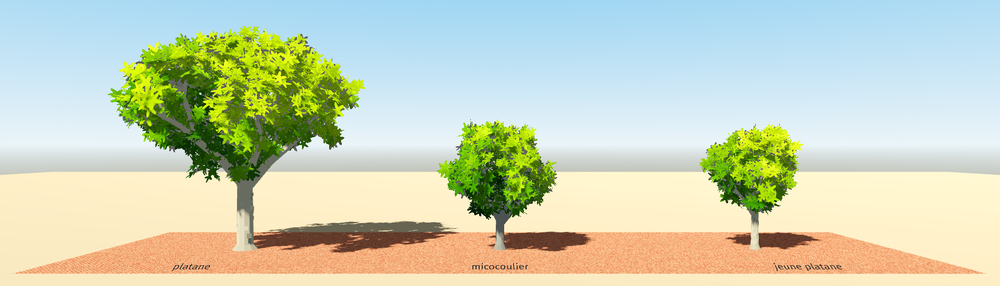
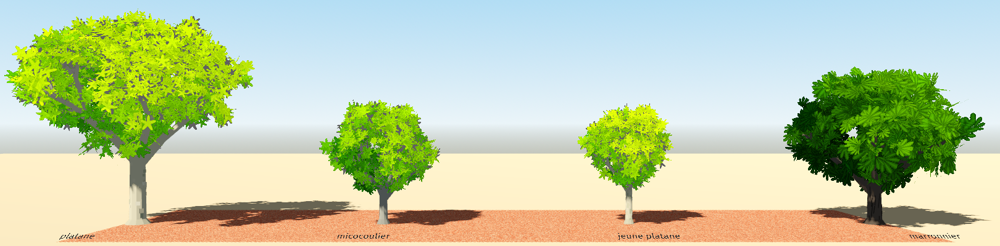
Bibliothèque : le marronnier, la lumière en aplats des arbres d'ombrière et la teinte des tuiles lyonnaises
Pour la carte de Lyon : arbres-d-ombriere@1 gagne le marronnier (feuilles
palmées à sept folioles dessinées par le shader, tronc sombre, couronne
large) et une lumière en aplats à la manière de Zelda (trois tons qui suivent
le dôme, ombre franche, liseré clair au soleil) ; facadier-lyonnais@1 prend
l'option tuile (un hexa), le défaut inchangé.

Claude-Session: https://claude.ai/code/session_01DJ1usffUoDo3bogmr9DKqH

diff --git a/docs/BIBLIOTHEQUE.md b/docs/BIBLIOTHEQUE.md
@@ -201,7 +201,7 @@ Les planches et la place recomposée : `godot --path . -s tools/planche_place.gd
 
 Quatre décors tirés du plan d'assets lyonnais de Guillaume (29 octobre 2026 : une place de la Presqu'île et sa fontaine au lion, des terrasses, le quai, la rivière et le pont à arches, la colline de Fourvière et sa basilique). Même facture que la place du nord : chaque dossier porte sa copie d'`outils.gd` et des deux shaders, un objet fusionne sa géométrie en trois surfaces au plus et ses collisions en un seul corps, rien n'est une image. Pied à l'origine sur un sol plat à y = 0, réglage par les propriétés de la racine, en mètres ; chaque brique dit ses variantes par une fonction statique (`types()` pour le façadier, `objets()` ou `noms()` pour les autres).
 
-- **`facadier-lyonnais@1`** (`type`, `graine`, `options`) : `maison` (deux étages), `classique` (trois), `arcades` (maison basse à arcades), `immeuble` (quatre), `etroite`, `bourgeois` (cinq niveaux et mansarde d'ardoise à lucarnes), `traboule` (le passage sombre sous une voûte), `cafe` (devanture rouge, store et enseigne, « CAFÉ DES CANUTS » par défaut), `hotel` (hôtel particulier sur rez-de-chaussée de pierre), `angle` (une seconde façade vers +X et un pan coupé) et `chapelle` (pignon, portail à voussures, rose, contreforts, clocher à flèche). La graine tire l'enduit (ocre, beige, rose, saumon, crème, jaune, pierre dorée, gris, terre), les persiennes, les garde-corps de fonte, les balcons filants, les fleurs, la vigne et les souches de cheminée ; le toit est en tuile canal à 24° sur génoise. Même repère que les autres façadiers. Options : `w`, `d`, `niveaux`, `enduit` (un nom ou un hexa), `toit` (`tuile`, `mansarde`), `rdc` (`boutique`, `cafe`, `arcades`, `passage`, `logis`, `pierre`), `persiennes`, `balcons`, `fleurs`, `vigne`, `enseigne`, `toile`. Métadonnées : `type`, `graine`, `w`, `d`, `hauteur` (au faîte), `porte`.
+- **`facadier-lyonnais@1`** (`type`, `graine`, `options`) : `maison` (deux étages), `classique` (trois), `arcades` (maison basse à arcades), `immeuble` (quatre), `etroite`, `bourgeois` (cinq niveaux et mansarde d'ardoise à lucarnes), `traboule` (le passage sombre sous une voûte), `cafe` (devanture rouge, store et enseigne, « CAFÉ DES CANUTS » par défaut), `hotel` (hôtel particulier sur rez-de-chaussée de pierre), `angle` (une seconde façade vers +X et un pan coupé) et `chapelle` (pignon, portail à voussures, rose, contreforts, clocher à flèche). La graine tire l'enduit (ocre, beige, rose, saumon, crème, jaune, pierre dorée, gris, terre), les persiennes, les garde-corps de fonte, les balcons filants, les fleurs, la vigne et les souches de cheminée ; le toit est en tuile canal à 24° sur génoise. Même repère que les autres façadiers. Options : `w`, `d`, `niveaux`, `enduit` (un nom ou un hexa), `toit` (`tuile`, `mansarde`), `rdc` (`boutique`, `cafe`, `arcades`, `passage`, `logis`, `pierre`), `persiennes`, `balcons`, `fleurs`, `vigne`, `enseigne`, `toile`, `tuile` (un hexa : la teinte des tuiles canal, demandée par la carte de Lyon ; le rouge orangé par défaut). Métadonnées : `type`, `graine`, `w`, `d`, `hauteur` (au faîte), `porte`.
 - **`mobilier-lyonnais@1`** (`objet`, `graine`, `options`) : `fontaine` (le grand bassin octogonal, la coupe, quatre mufles qui crachent, le lion couché sur son piédestal ; 11,2 m), `banc` (fonte verte et lattes), `banc_pierre`, `lampadaire` (réverbère à lanterne sur fût cannelé), `candelabre` (trois crosses et quatre lanternes), `borne`, `jardiniere` (pierre dorée et géraniums), `vasque` (fonte sur piédouche), `etal` (store à bandes et cagettes), `terrasse` (deux tables de bouchon, quatre chaises, parasol carré), `corbeille`, `escalier` (les marches des pentes et leur rampe), `garde_corps` (de quai, à frise de cercles), `kiosque` et `colonne` d'affiches. Le devant regarde +Z. Options : `fleurs`, `toile`, `allume`, `longueur`, `marches`, `eau` (faux : la fontaine à sec). Métadonnées : `objet`, `graine`, `emprise`.
 - **`vegetation-lyonnaise@1`** (`plante`, `graine`, `options`) : `platane` (fût marbré de plaques, charpentières en V), `alignement` (couronne taillée en ovale), `oranger` (dans sa caisse de Versailles, piqué d'oranges), `cypres`, `bac_fleuri`, `vigne` (sur son treillage, contre un mur placé en z = 0), `massif` (bordé de buis) et `buisson`. Options : `hauteur`, `pied` (`""`, `"grille"`, `"bordure"`), `fleurs`, `longueur`, `vent`, `fruits`. Métadonnées : `plante`, `graine`, `hauteur`, `couronne`.
 - **`quais-lyonnais@1`** (`module`, `graine`, `options`) : des modules sur une trame de 4 m, centrés sur l'origine, le devant vers +Z. Les sols (`paves` en rangs, `paves_eventail`, `dalle` de quai, `bordure` : trottoir relevé de 15 cm, bordure de granit, caniveau et chaussée) n'ont qu'une face de dessus par pavé. Puis `escalier_bas` (un mètre et son palier), `escalier_haut` (deux volées et un palier pour trois mètres, 6 m de fond), `arche` (plein cintre à claveaux), `arche_mur` (une arche aveugle grillée dans un mur de soutènement de 4 m, la terrasse pavée et son garde-corps au-dessus), `passage_escalier` (un passage voûté puis l'escalier entre deux murs jusqu'à la terrasse haute), `mur_quai_bas` (le parapet) et `mur_quai_haut` (le mur en fruit qui tombe dans la rivière, 3,4 m plus bas, avec anneau d'amarrage et échelle), enfin `pont` (trois arches surbaissées, avant-becs et parapets, 24 m). Options : `largeur`, `eau` (le mur haut et le pont avec leur bout de rivière), `parapet`. Métadonnées : `module`, `graine`, `emprise`, `haut` (la hauteur où mène le module).
@@ -237,7 +237,7 @@ Rien n'est refait de ce que les autres décors ont déjà : le banc, la corbeill
 
 - **`facadier-toulousain@1`** (`type`, `graine`, `options`) : `atelier` (rez-de-chaussée seul), `etroite`, `moyenne`, `immeuble`, `angle` (deux façades), `arcades`, `cafe`, `commerce`, `restaurant`, `hotel` (hôtel particulier enduit rose poudre ou crème à chaînes de brique), `lafage` (avant-corps et fronton à oculus, d'après l'hôtel de Lafage), `wilson` (immeuble XIXe à angle courbe et mansarde d'ardoise) et `colombages`. Fenêtres sous arc de brique à clé de pierre, balconnets de fonte, devantures et leurs enseignes, stores, lanternes. Options : `w`, `d`, `niveaux` (0 à 6), `brique` (`rose`, `orange`, `saumon`, `brune`, `claire` ou un hexa), `enduit`, `parement` (`brique`, `enduit`, `pans_de_bois`), `toit` (`deux_pans`, `quatre_pans`, `mansarde`), `rdc` (`commerce`, `cafe`, `restaurant`, `arcades`, `porche`, `logis`), `persiennes`, `balconnets`, `fleurs`, `vigne`, `enseigne`, `toile`. Métadonnées : `type`, `graine`, `w`, `d`, `hauteur`, `porte`.
 - **`sols-toulousains@1`** (`module`, `graine`, `options`) : des modules sur une trame de 4 m, centrés sur l'origine : `brique_epi` (le grand tapis de la place ; le motif se raccorde d'un module à l'autre, sans couture), `brique_rangs`, `dalles`, `galets` (de Garonne), `bordure` (trottoir, bordure et caniveau sur la chaussée), `fosse_arbre` (grille de fonte dans la brique), `rond` (pavés rayonnants, 8 m), `emmarchement`, `muret` (brique et pierre, sa plate-bande) et `muret_grille`. Options : `largeur`, `marches`, `plantes`. Métadonnées : `module`, `graine`, `emprise`, `haut`.
-- **`arbres-d-ombriere@1`** (`arbre`, `graine`, `options`) : `platane` (18 à 22 m, fût clair marbré, couronne en dôme très large), `micocoulier` (10 à 12 m, des jardins et des cours) et `jeune_platane` (9 à 11 m, un mail récent). On voit la charpente de branches. Le feuillage est fait de centaines de touffes en dentelle : chaque touffe est formée de deux cartes croisées où le shader dessine cinq à sept feuilles à cinq lobes nervurées, et hors des feuilles la carte est percée. Le ciel passe donc à travers la couronne, et l'ombre portée est tachetée. Les feuilles sont vert tilleul et la lumière les traverse. Le pied se pose dans une `fosse_arbre` de `sols-toulousains@1`. Options : `hauteur`, `vent`, `densite` (0,5 à 1,5 : moins de touffes, plus de ciel et moins de triangles). Métadonnées : `arbre`, `graine`, `hauteur`, `couronne`.
+- **`arbres-d-ombriere@1`** (`arbre`, `graine`, `options`) : `platane` (18 à 22 m, fût clair marbré, couronne en dôme très large), `micocoulier` (10 à 12 m, des jardins et des cours) `jeune_platane` (9 à 11 m, un mail récent) et `marronnier` (12 à 18 m, couronne large et irrégulière, tronc sombre à lanières, feuilles palmées à sept folioles ; demandé par la carte de Lyon). On voit la charpente de branches. Le feuillage est fait de centaines de touffes en dentelle : chaque touffe est formée de deux cartes croisées où le shader dessine cinq à sept feuilles à cinq lobes nervurées (deux ou trois feuilles palmées pour le marronnier), et hors des feuilles la carte est percée. Le ciel passe donc à travers la couronne, et l'ombre portée est tachetée. La lumière est posée en aplats, à la manière des arbres de Zelda : trois tons nets qui suivent le dôme plutôt que chaque carte, une ombre franche, le contre-jour qui traverse les feuilles et un liseré clair sur les bords au soleil. Le pied se pose dans une `fosse_arbre` de `sols-toulousains@1`. Options : `hauteur`, `vent`, `densite` (0,5 à 1,5 : moins de touffes, plus de ciel et moins de triangles). Métadonnées : `arbre`, `graine`, `hauteur`, `couronne`.
 - **`mobilier-toulousain@1`** (`objet`, `graine`, `options`) : `terrasse` (tables rondes et chaises de rotin), `parasol`, `grand_parasol` (carré, sur ses tables), `store_terrasse`, `chevalet`, `potelet` (fonte), `appui_velo`, `lampadaire`, `bac_bois` (fleuri), `jardin_enfants` (balançoires, toboggan, bac à sable, clôture) et `carrousel` (il tourne). Options : `toile`, `fleurs`, `allume`, `longueur`, `tables`, `tourne`. Métadonnées : `objet`, `graine`, `emprise`.
 
 L'ambiance, composée avec ces quatre briques : `godot --path . -s tools/planche_toulouse.gd -- --vue=saint_georges --capture=planche.png` (la place Saint-Georges : le tapis de brique en épi, l'hôtel de Lafage au fond, les cafés sous leurs parasols, l'immeuble Wilson en proue, le carrousel et le jardin d'enfants ; `--nom=bas` la montre à hauteur d'homme). Les planches des briques : `--vue=facadier|detail|un|mobilier|sols|arbres` (`--nom=` montre une seule pièce).
